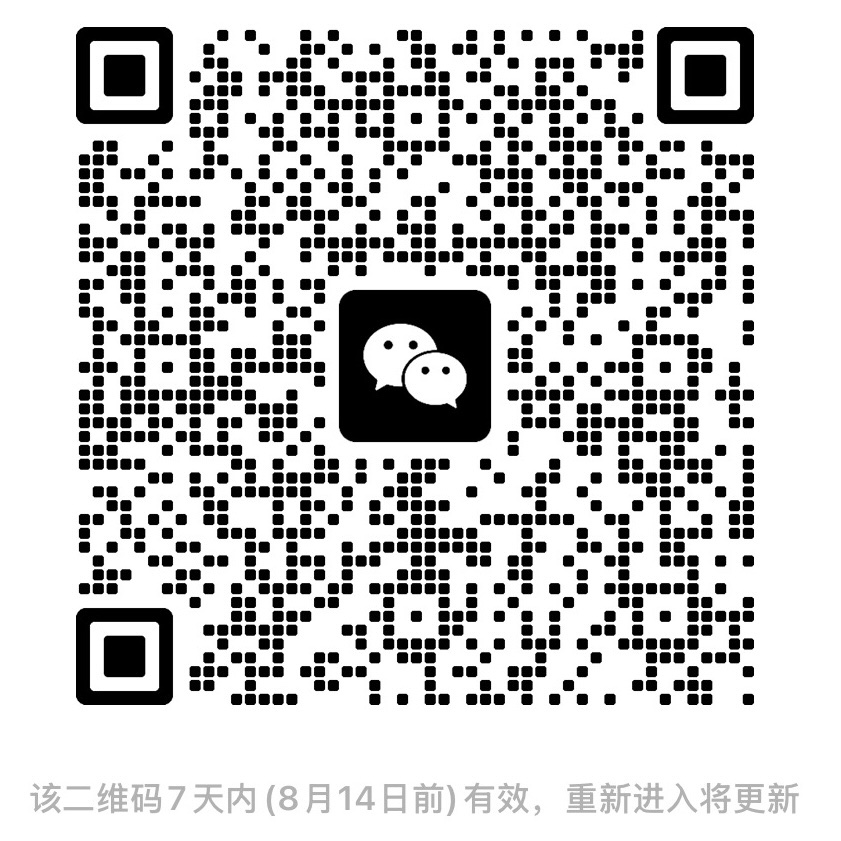
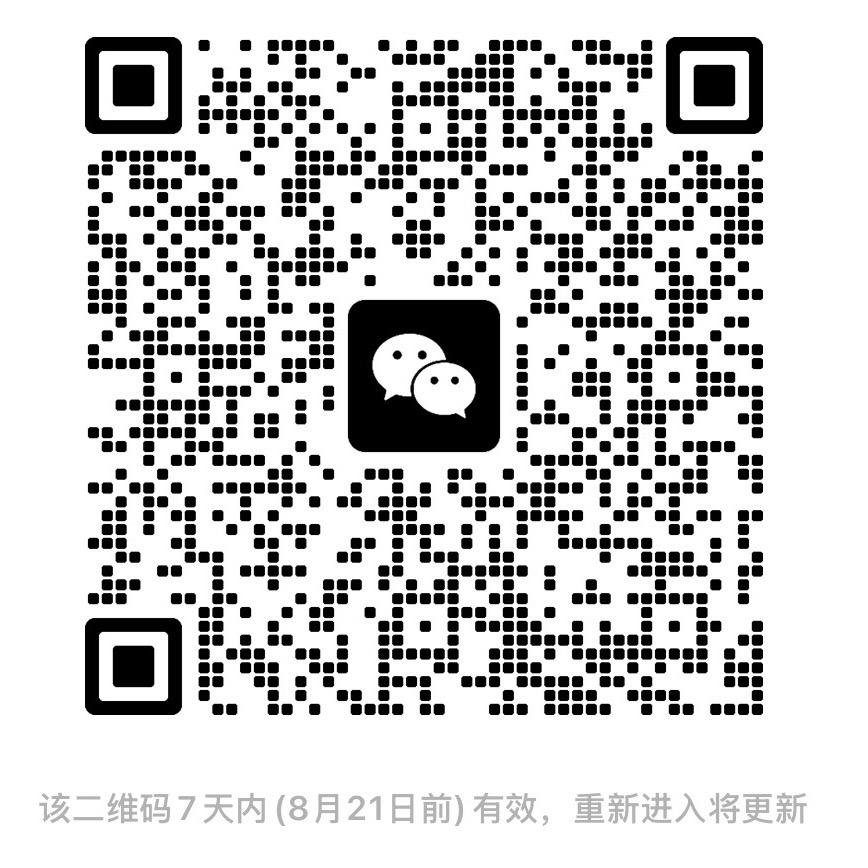
release: v0.2.7 (#430)
* chore: update version to v0.2.7

* feat(llm): add gemini-3.7-flash, deepseek-v4-pro-0813, grok-4.6, glm-5.3

* chore: refresh WeChat group QR code

diff --git a/EvoScientist/llm/registry.py b/EvoScientist/llm/registry.py
@@ -106,6 +106,7 @@ _MODEL_ENTRIES: list[tuple[str, str, str]] = [
     ("gpt-5-mini", "gpt-5-mini", "openai"),
     ("gpt-5-nano", "gpt-5-nano", "openai"),
     # Google GenAI
+    ("gemini-3.7-flash", "gemini-3.7-flash", "google-genai"),
     ("gemini-3.6-flash", "gemini-3.6-flash", "google-genai"),
     ("gemini-3.5-flash", "gemini-3.5-flash", "google-genai"),
     ("gemini-3.5-flash-lite", "gemini-3.5-flash-lite", "google-genai"),
@@ -169,6 +170,7 @@ _MODEL_ENTRIES: list[tuple[str, str, str]] = [
     ("gpt-5.5", "openai/gpt-5.5", "openrouter"),
     ("gpt-5.4", "openai/gpt-5.4", "openrouter"),
     ("gpt-5.3-codex", "openai/gpt-5.3-codex", "openrouter"),
+    ("gemini-3.7-flash", "google/gemini-3.7-flash", "openrouter"),
     ("gemini-3.6-flash", "google/gemini-3.6-flash", "openrouter"),
     ("gemini-3.5-flash", "google/gemini-3.5-flash", "openrouter"),
     ("gemini-3.5-flash-lite", "google/gemini-3.5-flash-lite", "openrouter"),
@@ -176,12 +178,14 @@ _MODEL_ENTRIES: list[tuple[str, str, str]] = [
     ("gemini-3-flash", "google/gemini-3-flash-preview", "openrouter"),
     ("kimi-k3", "moonshotai/kimi-k3", "openrouter"),
     ("kimi-k2.6", "moonshotai/kimi-k2.6", "openrouter"),
+    ("glm-5.3", "z-ai/glm-5.3", "openrouter"),
     ("glm-5.2", "z-ai/glm-5.2", "openrouter"),
     ("glm-5v-turbo", "z-ai/glm-5v-turbo", "openrouter"),
     ("minimax-m3", "minimax/minimax-m3", "openrouter"),
     ("mimo-v2.5-pro", "xiaomi/mimo-v2.5-pro", "openrouter"),
     ("mimo-v2.5", "xiaomi/mimo-v2.5", "openrouter"),
     ("grok-build-0.1", "x-ai/grok-build-0.1", "openrouter"),
+    ("grok-4.6", "x-ai/grok-4.6", "openrouter"),
     ("grok-4.5", "x-ai/grok-4.5", "openrouter"),
     ("hy3", "tencent/hy3", "openrouter"),
     ("qwen3.8-max", "qwen/qwen3.8-max", "openrouter"),
@@ -189,6 +193,7 @@ _MODEL_ENTRIES: list[tuple[str, str, str]] = [
     ("qwen3.7-plus", "qwen/qwen3.7-plus", "openrouter"),
     ("qwen3.6-flash", "qwen/qwen3.6-flash", "openrouter"),
     ("qwen3.5-122b", "qwen/qwen3.5-122b-a10b", "openrouter"),
+    ("deepseek-v4-pro-0813", "deepseek/deepseek-v4-pro-0813", "openrouter"),
     ("deepseek-v4-pro", "deepseek/deepseek-v4-pro", "openrouter"),
     ("deepseek-v4-flash", "deepseek/deepseek-v4-flash", "openrouter"),
     # Volcengine Coding Plan (火山引擎代码计划 — coding-only endpoint)
@@ -196,6 +201,7 @@ _MODEL_ENTRIES: list[tuple[str, str, str]] = [
     ("glm-5.2", "glm-5-2", "volcengine-code"),
     ("kimi-k2.5", "kimi-k2-5", "volcengine-code"),
     # Zhipu CodePlan (智谱代码计划 — coding-only endpoint)
+    ("glm-5.3", "glm-5.3", "zhipu-code"),
     ("glm-5.2", "glm-5.2", "zhipu-code"),
     ("glm-5.1", "glm-5.1", "zhipu-code"),
     ("glm-5", "glm-5", "zhipu-code"),
@@ -203,6 +209,7 @@ _MODEL_ENTRIES: list[tuple[str, str, str]] = [
     ("glm-5v-turbo", "glm-5v-turbo", "zhipu-code"),
     ("glm-4.7", "glm-4.7", "zhipu-code"),
     # Zhipu (智谱 — general endpoint, default for simple lookups)
+    ("glm-5.3", "glm-5.3", "zhipu"),
     ("glm-5.2", "glm-5.2", "zhipu"),
     ("glm-5.1", "glm-5.1", "zhipu"),
     ("glm-5", "glm-5", "zhipu"),

diff --git a/EvoScientist/llm/context_window.py b/EvoScientist/llm/context_window.py
@@ -22,8 +22,9 @@ _KNOWN_MODEL_CONTEXT_WINDOWS: dict[str, int] = {
     # Qwen 3.7 closed-source tiers — Max flagship and Plus (1M).
     "qwen3.7-max": 1_000_000,
     "qwen3.7-plus": 1_000_000,
-    # xAI Grok — per-model windows (build-0.1: 256K, 4.5: 500K).
+    # xAI Grok — per-model windows (build-0.1: 256K, 4.5/4.6: 500K).
     "grok-build-0.1": 256_000,
+    "grok-4.6": 500_000,
     "grok-4.5": 500_000,
     # Claude Haiku 4.5 — exception to the ``claude-`` family (200K, not 1M).
     "claude-haiku-4-5": 200_000,
@@ -31,8 +32,9 @@ _KNOWN_MODEL_CONTEXT_WINDOWS: dict[str, int] = {
     # Covers OpenRouter ``minimax/minimax-m3`` (via split('/')[-1]) and direct
     # ``MiniMax-M3`` (via lowercased exact match).
     "minimax-m3": 1_000_000,
-    # Zhipu GLM-5.2 — 1M context, an exception to the ``glm-5`` family (203K).
-    # Matches OpenRouter ``z-ai/glm-5.2`` via split('/')[-1].
+    # Zhipu GLM-5.3/5.2 — 1M context, exceptions to the ``glm-5`` family (203K).
+    # Matches OpenRouter ``z-ai/glm-5.x`` via split('/')[-1].
+    "glm-5.3": 1_000_000,
     "glm-5.2": 1_000_000,
     # Volcengine Coding Plan's OpenAI-compatible alias for GLM-5.2.
     "glm-5-2": 1_000_000,

diff --git a/README.md b/README.md
@@ -10,7 +10,7 @@
 <a href="https://pypi.org/project/EvoScientist/"><picture>
   <source media="(prefers-color-scheme: light)" srcset="https://raw.githubusercontent.com/EvoScientist/EvoScientist/main/.github/assets/badge-pypi-light.svg">
   <source media="(prefers-color-scheme: dark)" srcset="https://raw.githubusercontent.com/EvoScientist/EvoScientist/main/.github/assets/badge-pypi-dark.svg">
-  <img alt="PyPI v0.2.6" src="https://raw.githubusercontent.com/EvoScientist/EvoScientist/main/.github/assets/badge-pypi-light.svg" height="28">
+  <img alt="PyPI v0.2.7" src="https://raw.githubusercontent.com/EvoScientist/EvoScientist/main/.github/assets/badge-pypi-light.svg" height="28">
 </picture></a><a href="https://EvoScientist.github.io/"><picture>
   <source media="(prefers-color-scheme: light)" srcset="https://raw.githubusercontent.com/EvoScientist/EvoScientist/main/.github/assets/badge-website-light.svg">
   <source media="(prefers-color-scheme: dark)" srcset="https://raw.githubusercontent.com/EvoScientist/EvoScientist/main/.github/assets/badge-website-dark.svg">
@@ -151,7 +151,8 @@ Moving beyond traditional human-in-the-loop systems, EvoScientist adopts a human
 <details>
 <summary>📦 Release Highlights — version changelog</summary>
 
-- **[07 Aug 2026]** **[v0.2.6](https://github.com/EvoScientist/EvoScientist/releases/tag/v0.2.6)** — Agent teams: invite installed expert skills into a session (`/expert <name>`) for in-turn consults, parallel panels, or background jobs; configurable bind hosts for the langgraph dev backend and WebUI (loopback by default); Volcengine Coding Plan provider (`glm-5.2`, `kimi-k2.5`); Qwen3.8-Max on DashScope and OpenRouter (1M context); deepagents 0.7.5 with media placeholders instead of provider 400s; a blank tool-call ID fix for Kimi/Zhipu sessions.
+- **[14 Aug 2026]** **[v0.2.7](https://github.com/EvoScientist/EvoScientist/releases/tag/v0.2.7)** — Faster startup (lazy imports, reusable kept-alive langgraph dev server, indexed thread listing); new models: Gemini 3.7 Flash (Google + OpenRouter), DeepSeek V4 Pro 0813, Grok 4.6, and GLM-5.3 (Zhipu + OpenRouter); encrypted-webhook channels reject unsigned POSTs; MCP stdio servers start reliably under redirected streams on Windows; sub-agent tools resolve at dispatch time; `/compact` history offload restored on deepagents 0.7.6.
+- **[07 Aug 2026]** **[v0.2.6](https://github.com/EvoScientist/EvoScientist/releases/tag/V0.2.6)** — Agent teams: invite installed expert skills into a session (`/expert <name>`) for in-turn consults, parallel panels, or background jobs; configurable bind hosts for the langgraph dev backend and WebUI (loopback by default); Volcengine Coding Plan provider (`glm-5.2`, `kimi-k2.5`); Qwen3.8-Max on DashScope and OpenRouter (1M context); deepagents 0.7.5 with media placeholders instead of provider 400s; a blank tool-call ID fix for Kimi/Zhipu sessions.
 - **[01 Aug 2026]** **[v0.2.5](https://github.com/EvoScientist/EvoScientist/releases/tag/v0.2.5)** — Unified human-in-the-loop approval across the main agent and sync + async sub-agents; deepagents 0.7.0 with leaner built-in prompts and a recursive `delete` tool gated behind the same approval as `execute`; Requesty and Atlas Cloud as new LLM providers; fixes for unnamed tool calls, interrupted tool-call history on sync sub-agents, and deploy-mode port propagation.
 - **[26 Jul 2026]** **[v0.2.4](https://github.com/EvoScientist/EvoScientist/releases/tag/v0.2.4)** — Claude Opus 5 selectable on Anthropic and OpenRouter (incl. fast), plus Gemini 3.6 Flash and 3.5 Flash Lite on Google and OpenRouter; Kimi K3 now works over Anthropic-protocol channels (Kimi For Coding, custom endpoints), covering structured output, history replay, and multi-turn thinking; fixes for interrupted tool-call history, skill-install path leaks, and OpenRouter SSE streaming (pinned below 0.11).
 - **[18 Jul 2026]** **[v0.2.3](https://github.com/EvoScientist/EvoScientist/releases/tag/v0.2.3)** — Kimi K3 selectable on Moonshot and OpenRouter (1M context); async sub-agent runs no longer get stuck pending thanks to orphaned-run cleanup; Telegram slash commands; provider fixes (DeepSeek native SDK, GPT-5.x via ChatGPT OAuth, OpenAI `reasoning_effort`); quieter tool-selector streaming and smaller checkpoints.
